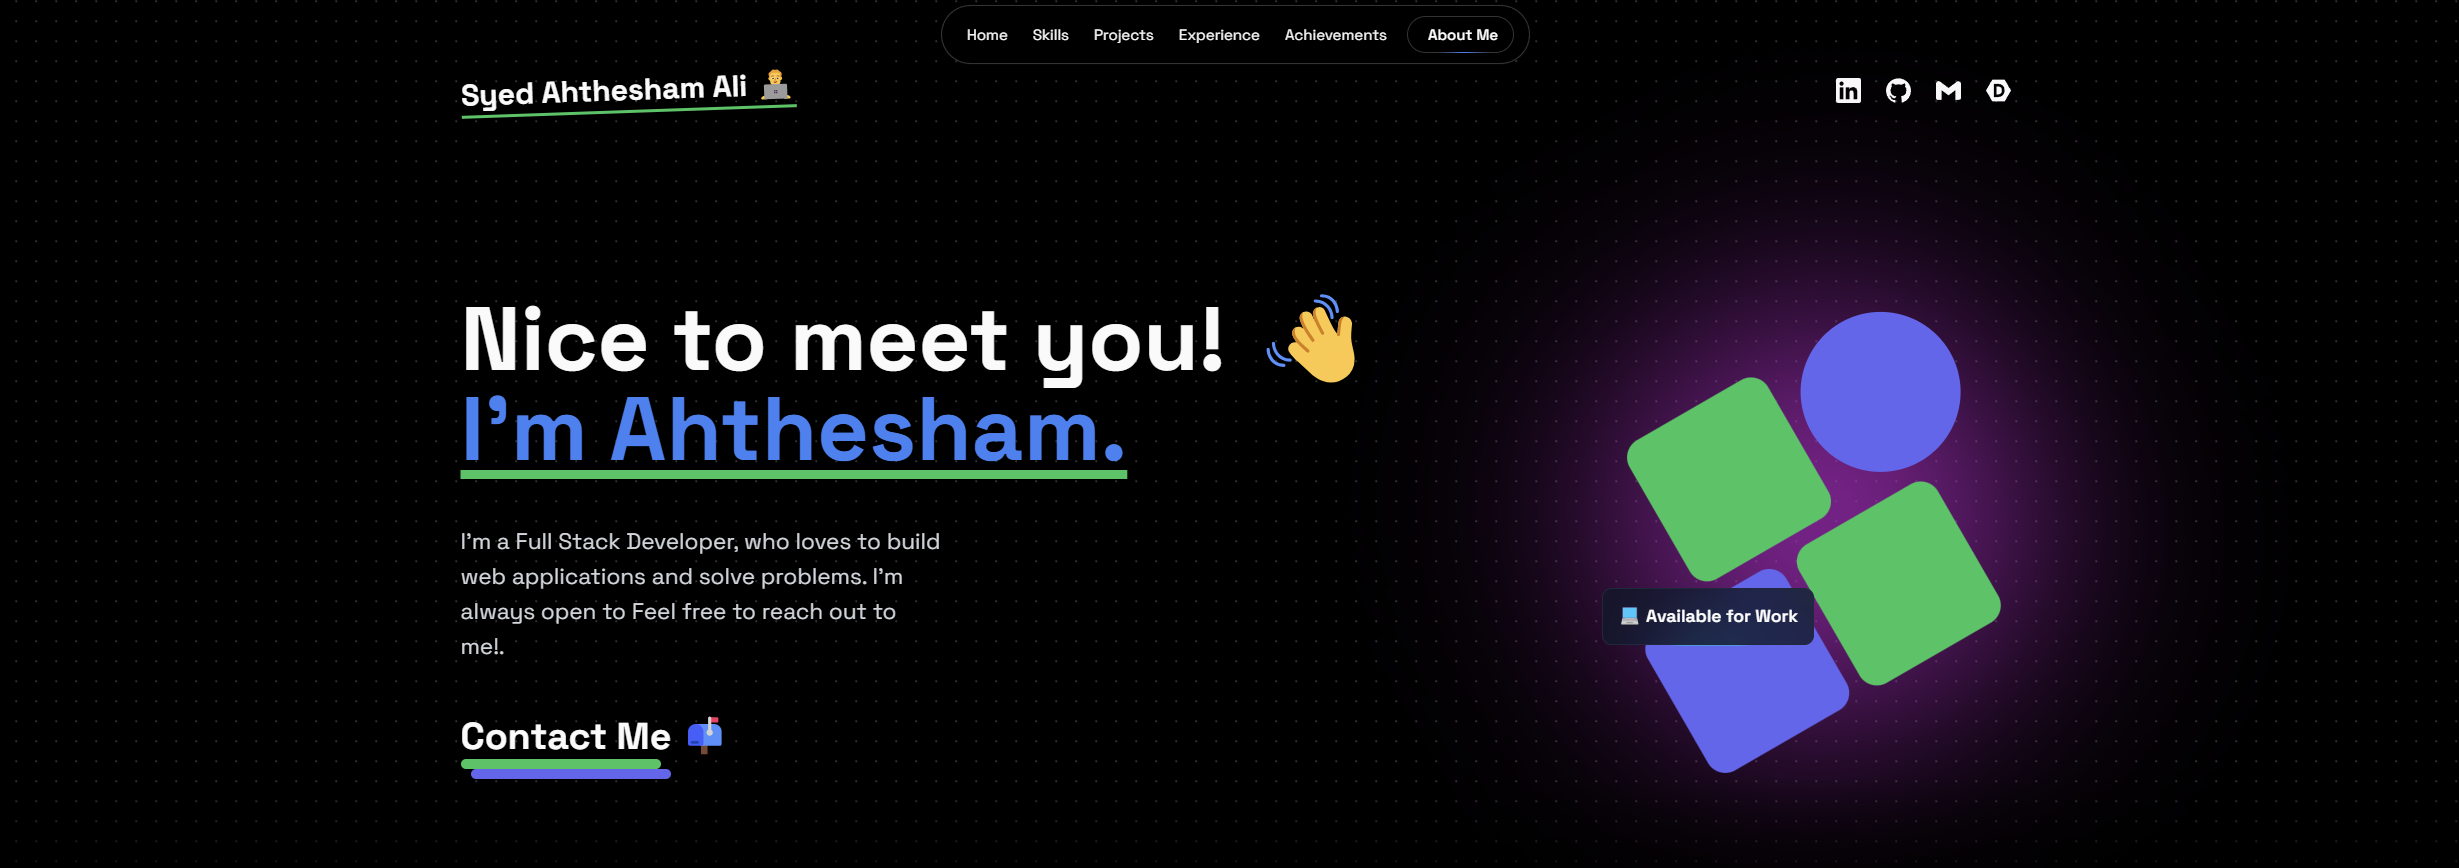
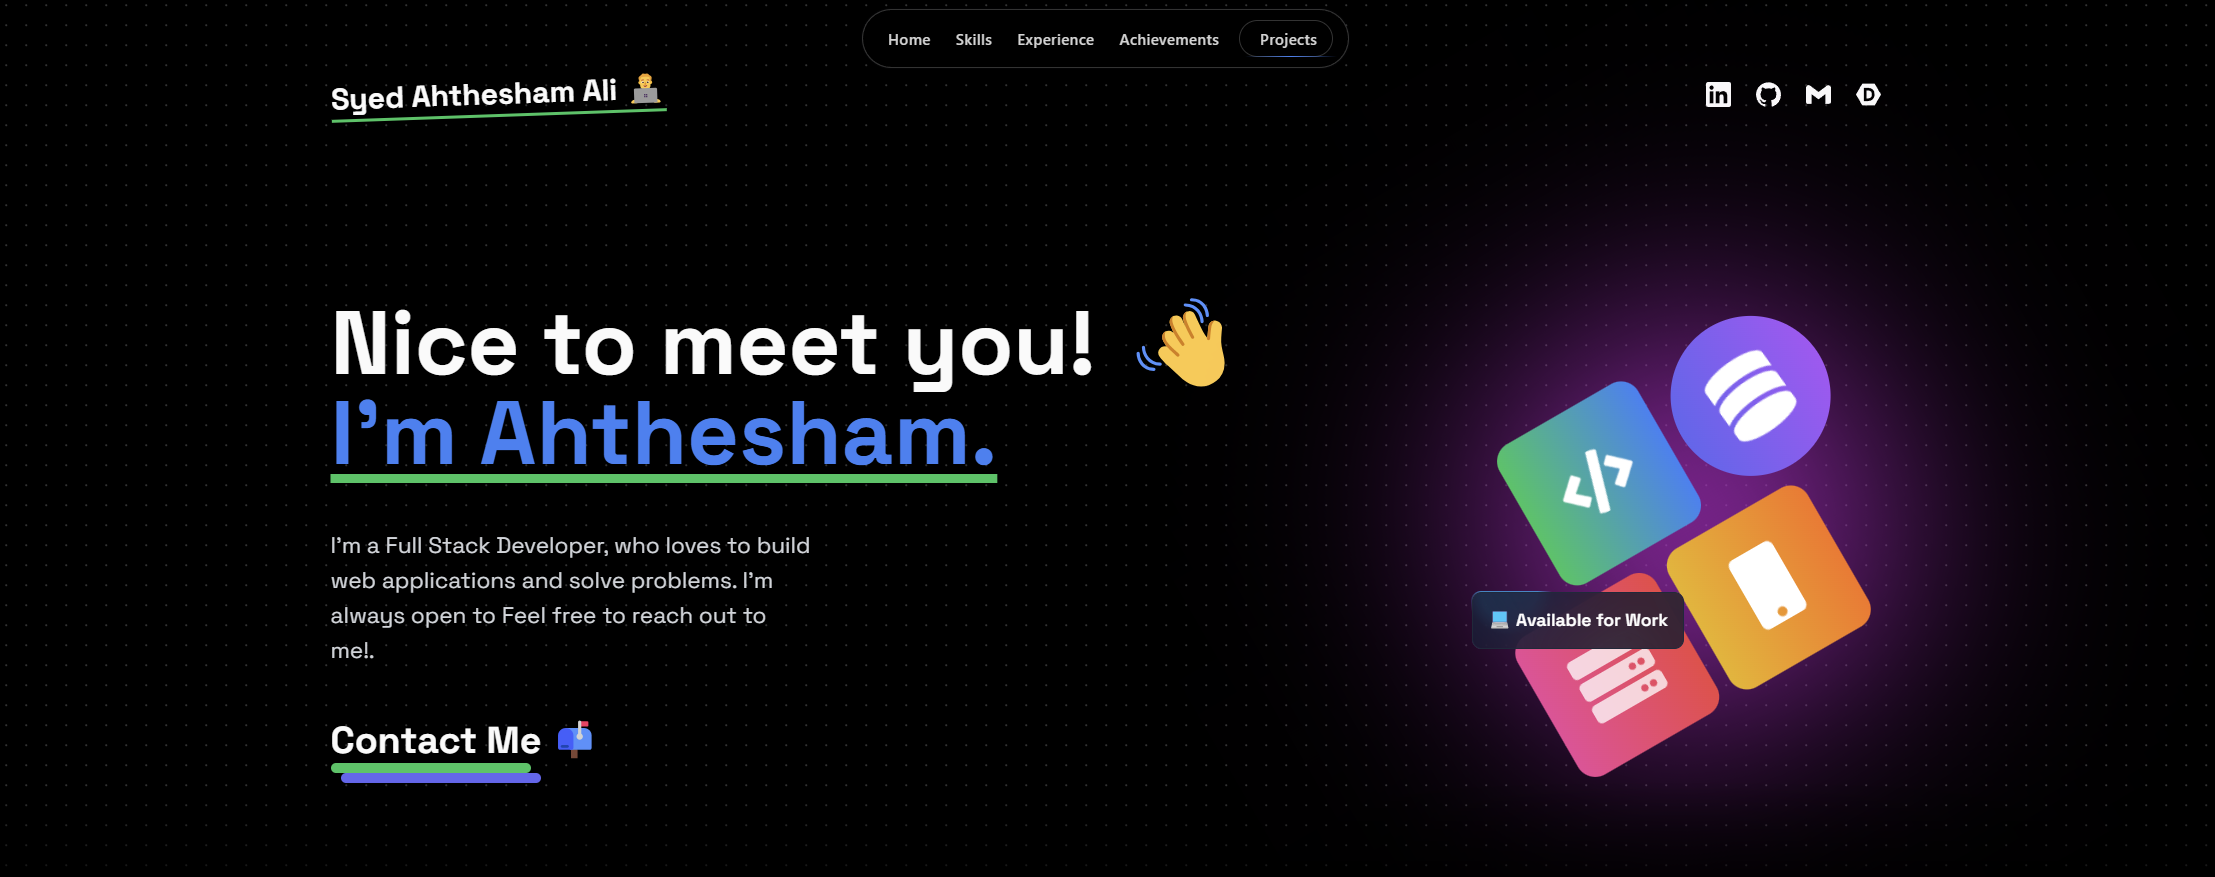
optimized seo and added animation effects to the shapes in the hero sectio

diff --git a/app/(home)/components/HeroSection.tsx b/app/(home)/components/HeroSection.tsx
@@ -1,55 +1,69 @@
-import { MovingBorderBtn } from '@/components/ui/moving-border'
-import Link from 'next/link'
-import React from 'react'
-import Title from './Title'
-
+import { MovingBorderBtn } from '@/components/ui/moving-border';
+import Link from 'next/link';
+import React from 'react';
+import Title from './Title';
+import { FaCode, FaDatabase, FaServer, FaMobile } from 'react-icons/fa';
 
 export default function HeroSection() {
   return (
-    <div className='min-h-[60vh] flex flex-col-reverse gap-14 lg:gap-0 lg:flex-row items-center justify-between'>
-        <div className='space-y-10 text-center lg:text-left'>
-            <h1 className='text-4xl lg:text-7xl font-bold'>
-                Nice to meet you! 👋
-                <br /> {" "}
-                <span className='text-blue-500 dark:text-blue-500 underline underline-offset-8 decoration-green-500'>
-                    {"I'm Ahthesham."}
-                </span>
-            </h1>
-            <p className='md:w-96 text-lg text-gray-300'>
-                {
-                    "I'm a Full Stack Developer, who loves to build web applications and solve problems. I'm always open to Feel free to reach out to me!."
-                }
-            </p>
-
-        <Link href={"ahtheshamali786@gmail.com"} className='inline-block group'>
-            
-            <Title
-        
-            text="Contact Me 📫"
-        
-        />
-        
-        </Link>   
-    </div>
-        <div className='relative'>
-            <div className='w-72 h-72 space-y-3 -rotate-[30deg] relative'>
-                <div className='flex gap-3 translate-x-8'>
-                    <div className='w-32 h-32 rounded-2xl bg-green-500'></div>
-                    <div className='w-32 h-32 rounded-full bg-indigo-500'></div>
-                </div>
-                <div className='flex gap-3 -translate-x-8'>
-                <div className='w-32 h-32 rounded-2xl bg-indigo-500'></div>
-                    <div className='w-32 h-32 rounded-2xl bg-green-500'></div>
-                </div>
-                <div className='glow absolute top-[40%] right-1/2 -z-10'></div>
+    <div className='min-h-[60vh] flex flex-col-reverse gap-14 lg:gap-0 lg:flex-row items-center justify-between animate-move-up'>
+      <div className='space-y-10 text-center lg:text-left'>
+        <h1 className='text-4xl lg:text-7xl font-bold'>
+          Nice to meet you! 👋 <br />
+          <span className='text-blue-500 dark:text-blue-500 underline underline-offset-8 decoration-green-500'>
+            {"I'm Ahthesham."}
+          </span>
+        </h1>
+        <p className='md:w-96 text-lg text-gray-300'>
+          {
+            "I'm a Full Stack Developer, who loves to build web applications and solve problems. I'm always open to Feel free to reach out to me!."
+          }
+        </p>
+        <Link href={'ahtheshamali786@gmail.com'} className='inline-block group'>
+          <Title text='Contact Me 📫' />
+        </Link>
+      </div>
+      <div className='relative'>
+        <div className='w-72 h-72 space-y-3 -rotate-[30deg] relative'>
+          <div className='flex gap-3 translate-x-8'>
+            <div className='w-32 h-32 rounded-2xl bg-gradient-to-r from-green-500 to-blue-500 relative overflow-hidden '>
+              <div className='absolute inset-0 bg-gradient-to-r from-green-500 to-blue-500 opacity-0 hover:opacity-100 transition-opacity duration-300'></div>
+              <div className='absolute inset-0 flex items-center justify-center'>
+                <FaCode className='w-16 h-16 text-white animate-bounce' />
+              </div>
             </div>
-            
-            <div className='absolute bottom-5 sm:bottom-14 left-0 sm:-left-10'>
-            <MovingBorderBtn borderRadius='0.5rem' className='p-3 font-semibold'>
-                <p>💻 Available for Work </p>
-            </MovingBorderBtn>
-            </div> 
+            <div className='w-32 h-32 rounded-full bg-gradient-to-r from-indigo-500 to-purple-500 relative overflow-hidden '>
+              <div className='absolute inset-0 bg-gradient-to-r from-indigo-500 to-purple-500 opacity-0 hover:opacity-100 transition-opacity duration-300'></div>
+              <div className='absolute inset-0 flex items-center justify-center'>
+                <FaDatabase className='w-16 h-16 text-white animate-spin' />
+              </div>
+            </div>
+          </div>
+          <div className='flex gap-3 -translate-x-8'>
+            <div className='w-32 h-32 rounded-2xl bg-gradient-to-r from-pink-500 to-red-500 relative overflow-hidden '>
+              <div className='absolute inset-0 bg-gradient-to-r from-pink-500 to-red-500 opacity-0 hover:opacity-100 transition-opacity duration-300'></div>
+              <div className='absolute inset-0 flex items-center justify-center'>
+                <FaServer className='w-16 h-16 text-white animate-pulse' />
+              </div>
+            </div>
+            <div className='w-32 h-32 rounded-2xl bg-gradient-to-r from-yellow-500 to-orange-500 relative overflow-hidden '>
+              <div className='absolute inset-0 bg-gradient-to-r from-yellow-500 to-orange-500 opacity-0 hover:opacity-100 transition-opacity duration-300'></div>
+              <div className='absolute inset-0 flex items-center justify-center'>
+                <FaMobile className='w-16 h-16 text-white animate-bounce' />
+              </div>
+            </div>
+          </div>
+          <div className='glow absolute top-[40%] right-1/2 -z-10 '></div>
+          <div className='absolute top-0 left-0 w-full h-full flex items-center justify-center'>
+            <div className='w-24 h-24 rounded-full bg-white opacity-0 animate-ping'></div>
+          </div>
         </div>
+        <div className='absolute bottom-5 sm:bottom-14 left-0 sm:-left-10'>
+          <MovingBorderBtn borderRadius='0.5rem' className='p-3 font-semibold'>
+            <p>💻 Available for Work</p>
+          </MovingBorderBtn>
+        </div>
+      </div>
     </div>
-  )
+  );
 }

diff --git a/tailwind.config.ts b/tailwind.config.ts
@@ -69,6 +69,31 @@ const config = {
         sm: "calc(var(--radius) - 4px)",
       },
       keyframes: {
+
+        "move-up":{
+          from: {
+            trasnform:"translateY(10px)",
+            opacity: "0",
+
+          },
+          to: {
+            trasnform: "translateY(0px)",
+            opacity: "1",
+        },
+      },
+
+      "move-down":{
+        from: {
+          trasnform:"translateY(-10px)",
+          opacity: "0",
+
+        },
+        to: {
+          trasnform: "translateY(0px)",
+          opacity: "1",
+      },
+    },
+
         "accordion-down": {
           from: { height: "0" },
           to: { height: "var(--radix-accordion-content-height)" },
@@ -81,6 +106,8 @@ const config = {
       animation: {
         "accordion-down": "accordion-down 0.2s ease-out",
         "accordion-up": "accordion-up 0.2s ease-out",
+        "move-up": "move-up 1s linear forwards",
+        "move-down": "move-down 1s linear forwards",
       },
     },
   },

diff --git a/app/(home)/components/Navbar.tsx b/app/(home)/components/Navbar.tsx
@@ -38,7 +38,7 @@ export default function Navbar({className}:{className?: string}) {
 
 
   return (
-    <nav className={cn('py-10 flex justify-between items-center', className)}>
+    <nav className={cn('py-10 flex justify-between items-center animate-move-down', className)}>
         <h1 className='text-2xl font-bold underline underline-offset-8 decoration-green-500 -rotate-2'> Syed Ahthesham Ali 👨💻</h1>
         <div className='flex items-center gap-5'>
             {socials.map((social, index)=>{
